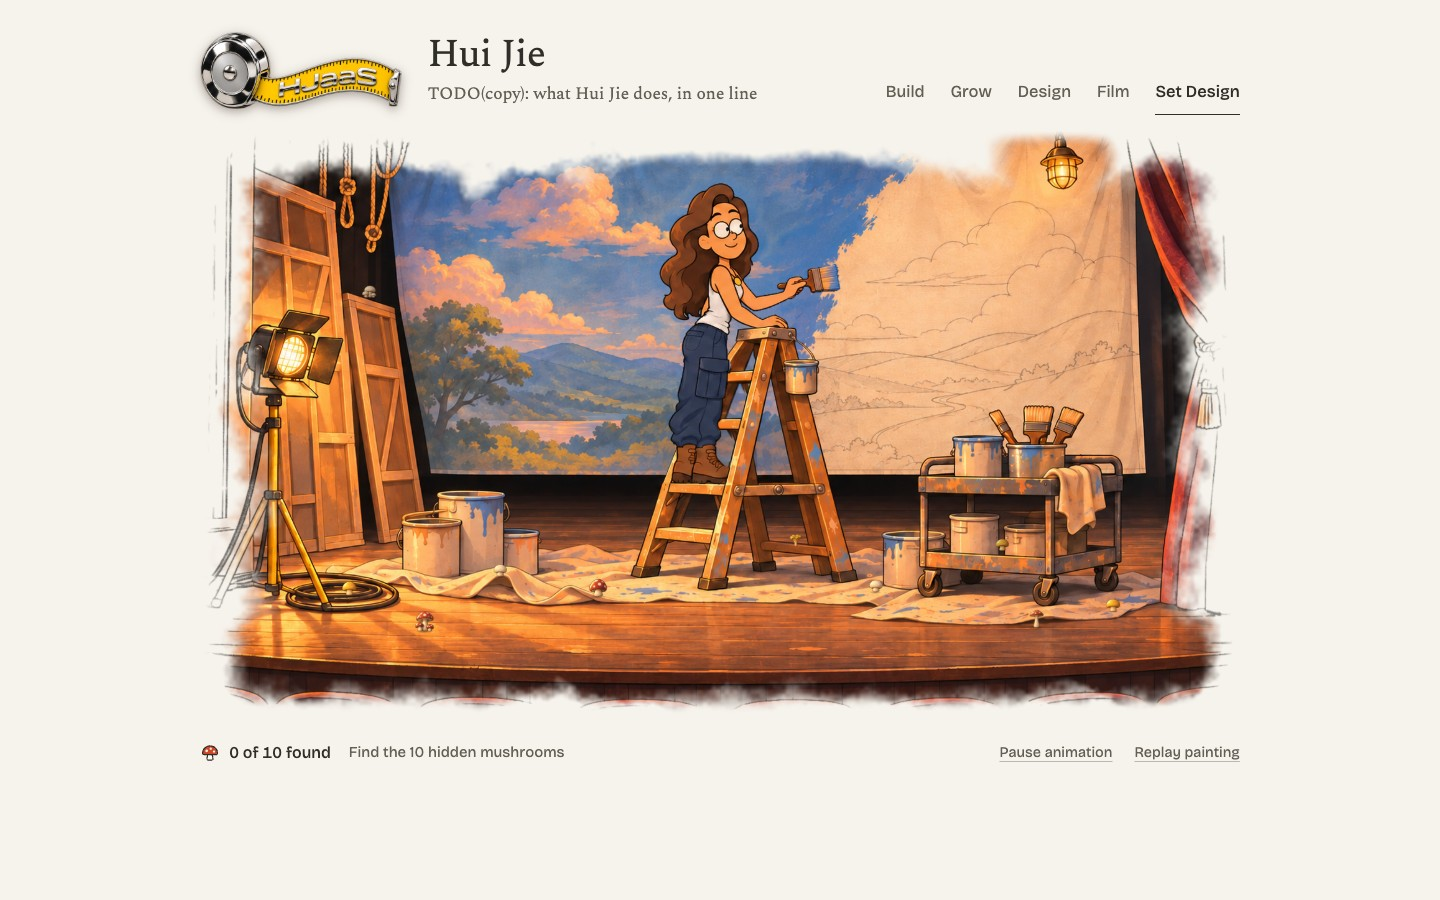
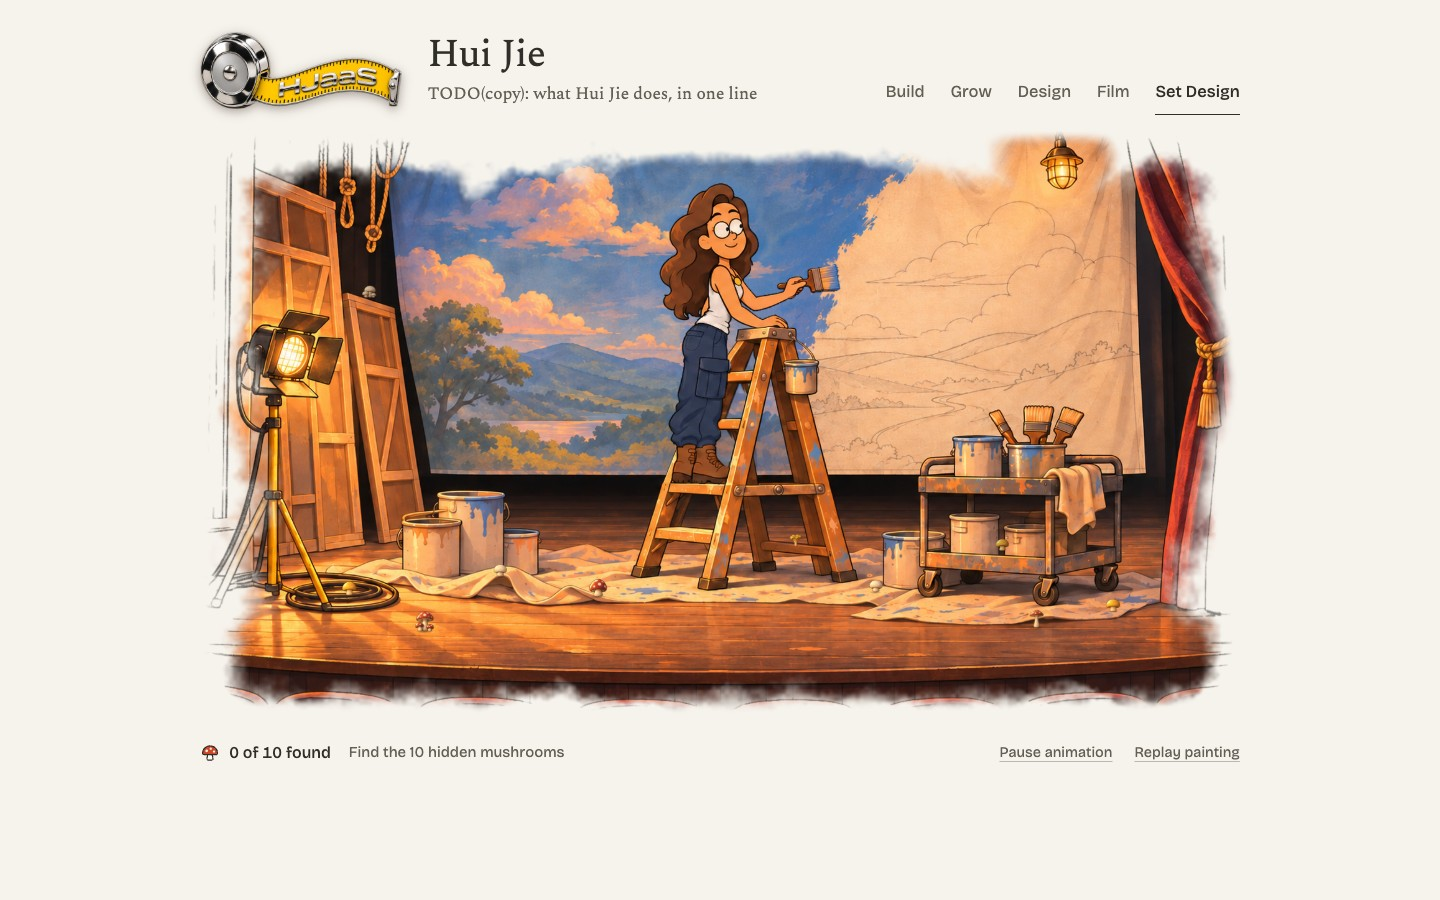
Scene 5 round 2: the painting hugs the slot so the stagehand is whole; strips and a 60 fps recorder

Changed region(s): [[0.8125, 0.28, 0.875, 0.6222]]

diff --git a/site/src/scenes/set.ts b/site/src/scenes/set.ts
@@ -85,6 +85,31 @@ const LAMP_CAGE: KeepBox[] = [
   [1347, 86, 1404, 97, 'hug'],
 ];
 
+// The stagehand crosses the dark slot between the backdrop and the curtain, and is seen whole there: the painting
+// hugs the slot's right-hand outline (the body mask's, band by band, from just above his head, plate y 125, to
+// the foot of the gap). Without it the right edge's paper took his arm and his belt.
+const SLOT: KeepBox[] = [
+  [1503, 125, 1522, 149, 'hug'],
+  [1503, 149, 1530, 173, 'hug'],
+  [1503, 173, 1539, 197, 'hug'],
+  [1503, 197, 1548, 221, 'hug'],
+  [1503, 221, 1559, 245, 'hug'],
+  [1503, 245, 1570, 269, 'hug'],
+  [1503, 269, 1579, 293, 'hug'],
+  [1503, 293, 1594, 317, 'hug'],
+  [1503, 317, 1604, 341, 'hug'],
+  [1503, 341, 1608, 389, 'hug'],
+  [1503, 389, 1600, 413, 'hug'],
+  [1503, 413, 1594, 437, 'hug'],
+  [1503, 437, 1588, 461, 'hug'],
+  [1503, 461, 1584, 485, 'hug'],
+  [1503, 485, 1578, 509, 'hug'],
+  [1503, 509, 1575, 533, 'hug'],
+  [1503, 533, 1571, 557, 'hug'],
+  [1503, 557, 1565, 581, 'hug'],
+  [1503, 581, 1562, 637, 'hug'],
+];
+
 export const set: SceneConfig = {
   id: 'set',
   label: 'Set Design',
@@ -97,8 +122,8 @@ export const set: SceneConfig = {
   // stagehand walks.
   character: { kind: 'cast', dir: 'cast/', frames: 'frames.json', routine: 'routine.json' },
   spots: SPOTS,
-  // The painting is whole under every pixel Rachel ever covers; and the lamp's cage.
-  keep: [cast.covers.rachel as unknown as KeepBox, ...LAMP_CAGE],
+  // The painting is whole under every pixel Rachel ever covers; the lamp's cage; and the slot the stagehand crosses.
+  keep: [cast.covers.rachel as unknown as KeepBox, ...LAMP_CAGE, ...SLOT],
   // (No `edge`: the scene's first edge already fits the strips the edge is drawn in and leaves every mushroom
   // and tap box where it is: qa/tools/pencil.mjs pick 800 set.)
   lines: 'pencil',

diff --git a/site/src/scenes/scenes.test.ts b/site/src/scenes/scenes.test.ts
@@ -198,11 +198,18 @@ describe('Set Design', () => {
     expect(scene.spots.map((spot) => spot.x)).toEqual([...scene.spots.map((spot) => spot.x)].sort((a, b) => a - b));
   });
 
-  it('keeps the painting whole under Rachel and around the lamp\'s cage; she answers at once, and a second find holds her salute', () => {
+  it('keeps the painting whole under Rachel and around the lamp\'s cage and the slot by the curtain; she answers at once, and a second find holds her salute', () => {
     expect(scene.keep).toContainEqual(setCast.covers.rachel);
     const hugged = scene.keep!.filter((box) => box[4] === 'hug');
     expect(hugged.length).toBeGreaterThanOrEqual(3);
-    for (const [l, t, r, b] of hugged) expect(l >= 1327 && r <= 1427 && t >= 20 && b <= 101).toBe(true);
+    const inLamp = ([l, t, r, b]: readonly unknown[]) => Number(l) >= 1327 && Number(r) <= 1427 && Number(t) >= 20 && Number(b) <= 101;
+    const inSlot = ([l, t, r, b]: readonly unknown[]) => Number(l) >= 1500 && Number(r) <= 1609 && Number(t) >= 101 && Number(b) <= 637;
+    for (const box of hugged) expect(inLamp(box) !== inSlot(box), box.join()).toBe(true);
+    expect(hugged.filter(inLamp)).toHaveLength(5);
+    // The slot's boxes follow one another without a break, from above the stagehand's head to the foot of the gap.
+    const slot = hugged.filter(inSlot).map((box) => [Number(box[1]), Number(box[3])]);
+    expect([slot[0][0], slot.at(-1)![1]]).toEqual([125, 637]);
+    for (let i = 1; i < slot.length; i++) expect(slot[i][0]).toBe(slot[i - 1][1]);
     expect(setCast.room).toEqual(expect.arrayContaining(['lamp', 'backdrop_01', 'backdrop_10']));
     expect(scene.answer).toBe('at-once');
     expect(scene.again).toBe('hold');
